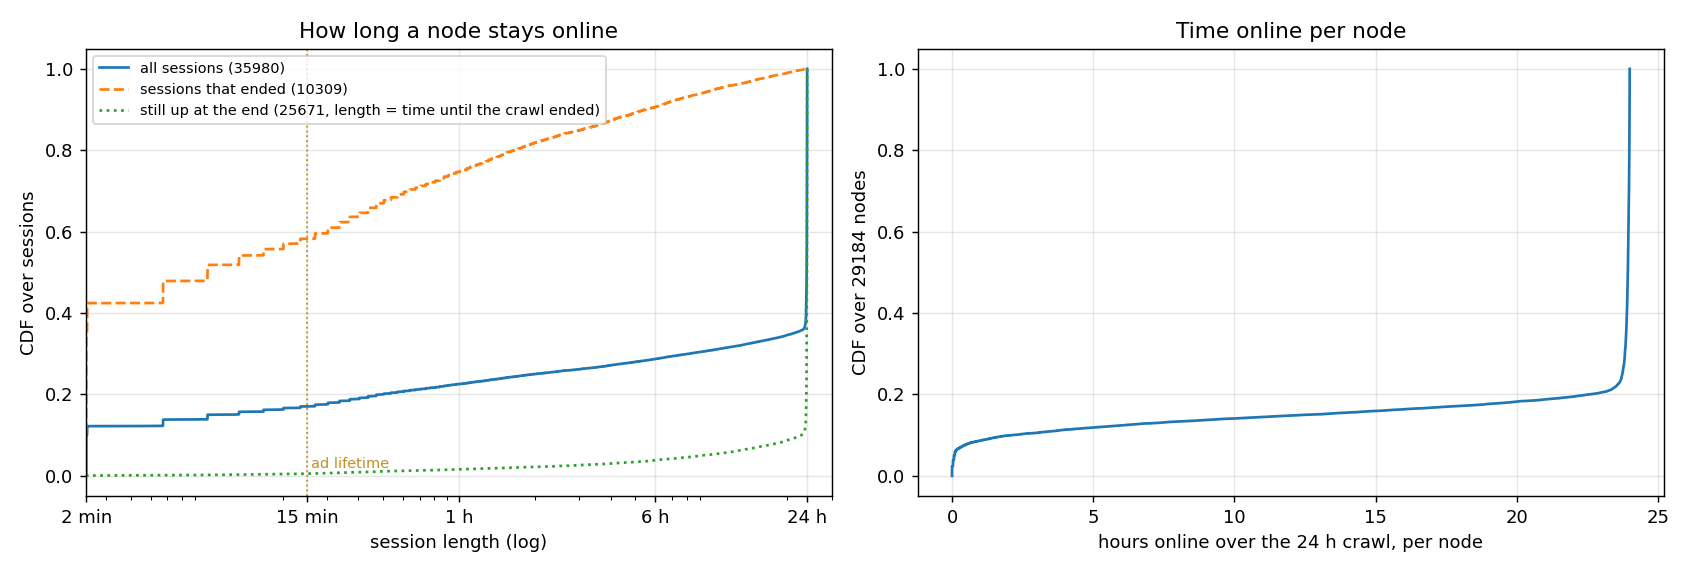
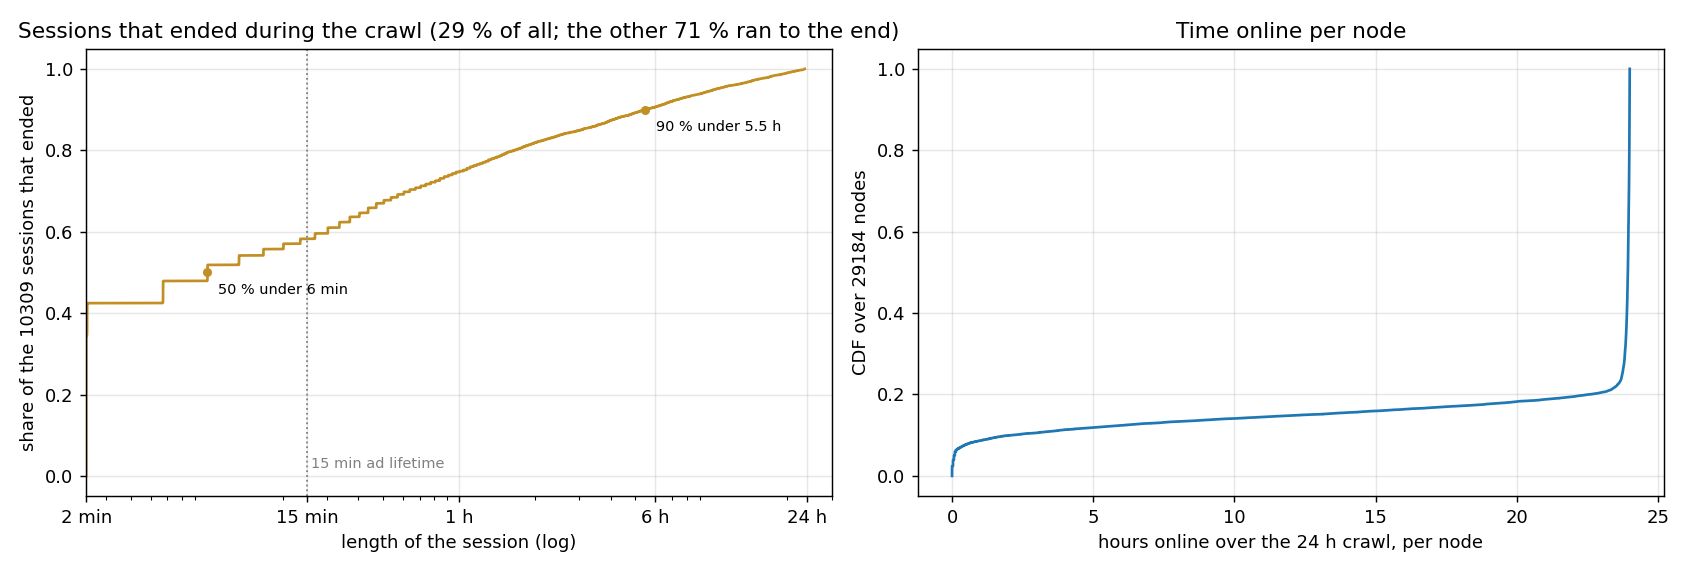
docs: session-length panel shows only the sessions that ended

diff --git a/cmd/crawl/churn_figures.py b/cmd/crawl/churn_figures.py
@@ -19,12 +19,14 @@ closed = np.maximum(np.array([(s["end"] - s["start"]) / 3600 for s in S if s["en
 opened = np.maximum(np.array([(span - s["start"]) / 3600 for s in S if s["end"] is None]), PROBE_H)
 allen = np.concatenate([closed, opened])
 fig, ax = plt.subplots(1, 2, figsize=(13, 4.4))
-for arr, lab, st in ((allen, f"all sessions ({len(allen)})", "-"), (closed, f"sessions that ended ({len(closed)})", "--"), (opened, f"still up at the end ({len(opened)}, length = time until the crawl ended)", ":")):
-    x = np.sort(arr); ax[0].plot(x, np.arange(1, len(x) + 1) / len(x), st, label=lab)
+x = np.sort(closed); ax[0].plot(x, np.arange(1, len(x) + 1) / len(x), color="#C28F24")
+for q in (0.5, 0.9):
+    v = np.quantile(closed, q); ax[0].plot([v], [q], "o", color="#C28F24", ms=4)
+    ax[0].annotate(f"{int(q*100)} % under {v*60:.0f} min" if v < 1 else f"{int(q*100)} % under {v:.1f} h", (v, q), textcoords="offset points", xytext=(6, -12), fontsize=8)
 ax[0].set_xscale("log"); ax[0].set_xlim(PROBE_H, 30); ax[0].set_xticks([2/60, 15/60, 1, 6, 24]); ax[0].set_xticklabels(["2 min", "15 min", "1 h", "6 h", "24 h"])
-ax[0].set_xlabel("session length (log)"); ax[0].set_ylabel("CDF over sessions"); ax[0].grid(alpha=.3); ax[0].legend(fontsize=8, loc="upper left")
-ax[0].axvline(0.25, color="#C28F24", ls=":", lw=1); ax[0].text(0.26, 0.02, "ad lifetime", fontsize=8, color="#C28F24")
-ax[0].set_title("How long a node stays online")
+ax[0].set_xlabel("length of the session (log)"); ax[0].set_ylabel(f"share of the {len(closed)} sessions that ended"); ax[0].grid(alpha=.3)
+ax[0].axvline(0.25, color="grey", ls=":", lw=1); ax[0].text(0.26, 0.02, "15 min ad lifetime", fontsize=8, color="grey")
+ax[0].set_title(f"Sessions that ended during the crawl ({100*len(closed)/len(allen):.0f} % of all; the other {100*len(opened)/len(allen):.0f} % ran to the end)")
 # per node: hours online over the crawl
 online = np.array([sum(((s["end"] if s["end"] is not None else span) - s["start"]) for s in ss) / 3600 for ss in by.values()])
 x = np.sort(online); ax[1].plot(x, np.arange(1, len(x) + 1) / len(x))

diff --git a/docs/churn-analysis.md b/docs/churn-analysis.md
@@ -32,13 +32,14 @@ at any given moment; 24 585 were present in the first hour and 25 671 at the end
 
 ![session length](figures/churn-analysis/sessions.png)
 
-*Left: length of every session, 30 minute rule; sessions still open when the crawl ended
-are counted up to that moment. Right: hours online over the 24 hours, per node.*
+*Left: how long a stretch of uptime lasts, for the sessions that ended during the crawl
+(29 % of all sessions; the other 71 % were still running when the crawl stopped). Right:
+hours online over the 24 hours, per node.*
 
-The left panel counts sessions, the right one nodes. 71 % of all sessions were still open
-when the crawl ended, most of them having run the whole day. The 29 % that ended are short:
-42 % of them were a single answer, 58 % lasted under 15 minutes, nine in ten under six
-hours. Per node, 80 % were online for the whole 24 hours and 10 % for under two hours.
+A session is one uninterrupted stretch of being reachable; it ends after 30 minutes of
+silence. The left panel is about the flicker: of the sessions that ended, 42 % were a
+single answer, 58 % lasted under 15 minutes, nine in ten under six hours. The right panel
+is about the nodes: 80 % were online for the whole 24 hours, 10 % for under two hours.
 
 ## 4. Who leaves, who comes back
 
